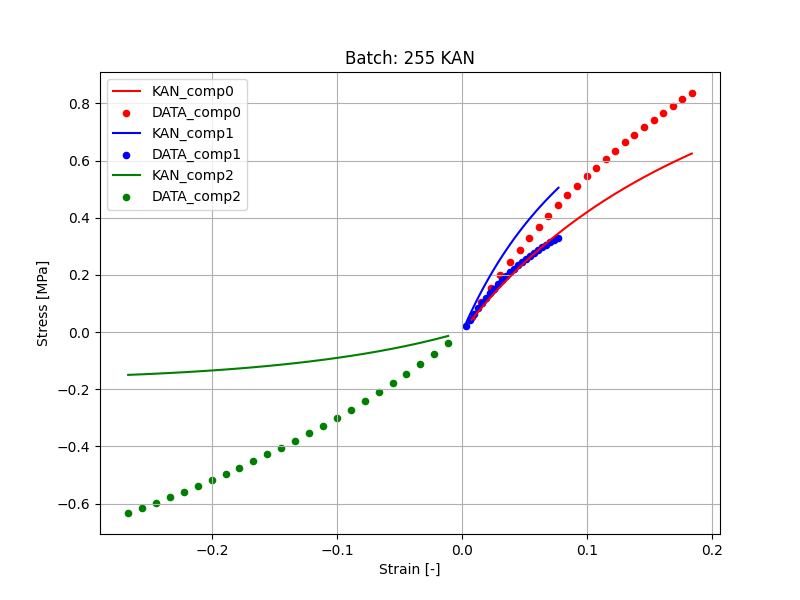
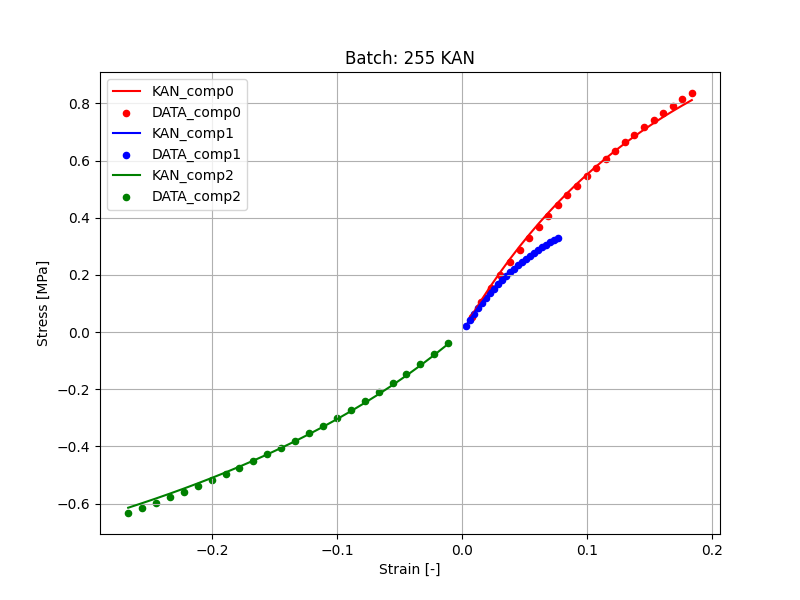
t

diff --git a/data_sets/KAN_ann.py b/data_sets/KAN_ann.py
@@ -340,17 +340,14 @@ fix_symbolic = False
 
 
 model.CalculateW(train_strain_database)  # Forward pass to compute activations
-model.KAN_W.node_attribute()
-model.KAN_W.node_attribute_scores
-model.KAN_W.attribute()
-att = model.KAN_W.feature_score
-print("model.KAN_W.attribute() = ", att)
+# model.KAN_W.node_attribute()
+# model.KAN_W.node_attribute_scores
+# model.KAN_W.attribute()
+# att = model.KAN_W.feature_score
+# print("model.KAN_W.attribute() = ", att)
 # print("model.KAN_W.node_attribute() = ", model.KAN_W.node_attribute_scores)
-model.KAN_W.prune(node_th=0.8, edge_th=0.8)
-model.KAN_W = model.KAN_W.prune_input(0.2)
-
-model.KAN_W.plot(folder="./KAN_predictions")
-plt.savefig("./KAN_predictions/KAN_splines.png")
+model.KAN_W = model.KAN_W.prune(node_th=0.1, edge_th=0.1)
+# model.KAN_W = model.KAN_W.prune_input(0.2)
 
 
 
